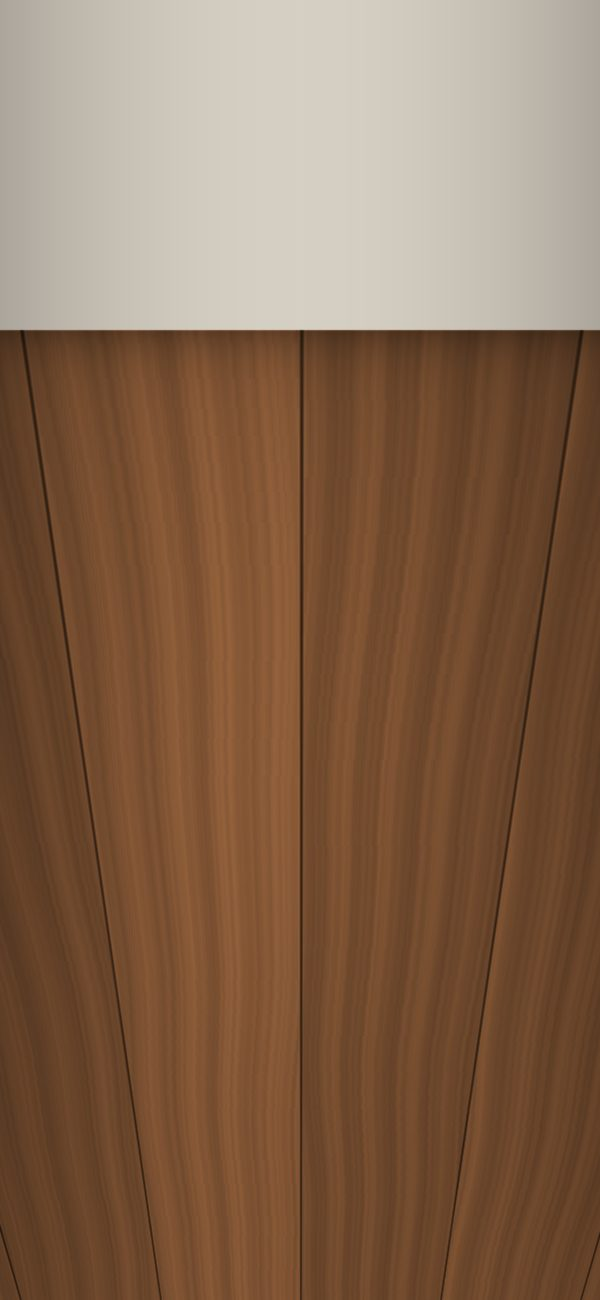
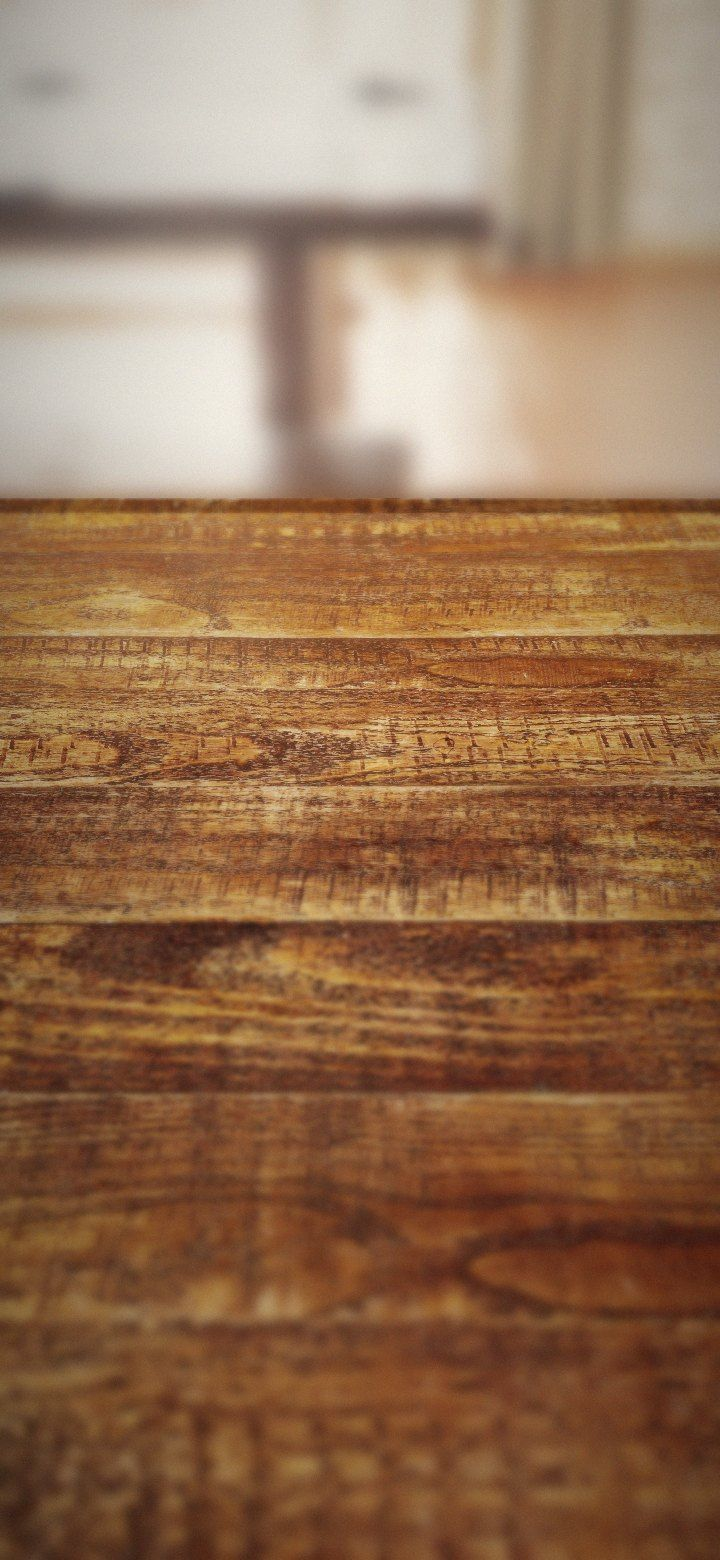
Make the homepage AR phone photo-real
Replace the drawn table with a render of a real restaurant (CC0 Poly Haven
HDRI + wood scan) using the same camera as the 3D view, light the dish with
the same restaurant HDRI, and match its angle so it sits on the table.

Claude-Session: https://claude.ai/code/session_011gwLWM6CGPWSsLyjZkfXA5

diff --git a/app/page.tsx b/app/page.tsx
@@ -193,7 +193,7 @@ export default async function Home() {
               className="relative aspect-[9/18.5] overflow-hidden rounded-[26px] bg-cover bg-center"
               style={{ backgroundImage: "url(/landing/ar-table.jpg)" }}
             >
-              <div className="absolute inset-x-0 bottom-[14%] top-[22%]">
+              <div className="absolute inset-0">
                 <Hero3D src={heroGlb} alt={`3D scan of ${heroName}`} />
               </div>
               <span className="absolute left-3 top-3 flex h-8 w-8 items-center justify-center rounded-full bg-black/45 text-white">
@@ -203,7 +203,7 @@ export default async function Home() {
                 Real size
               </span>
               {heroWidth > 0 && (
-                <span className="absolute left-1/2 top-[71%] -translate-x-1/2 rounded-full bg-white px-2.5 py-0.5 font-display text-xs font-extrabold">
+                <span className="absolute left-1/2 top-[69%] -translate-x-1/2 rounded-full bg-white px-2.5 py-0.5 font-display text-xs font-extrabold">
                   {heroWidth} cm wide
                 </span>
               )}

diff --git a/components/Hero3D.tsx b/components/Hero3D.tsx
@@ -17,18 +17,25 @@ export default function Hero3D({ src, alt }: { src: string; alt: string }) {
     <model-viewer
       src={src}
       alt={alt}
-      camera-orbit="20deg 58deg auto"
-      field-of-view="26deg"
+      // Matches the camera the table photo was rendered with (50cm above the
+      // table, tilted 40deg down), so the dish sits on the photo convincingly.
+      camera-orbit="0deg 50deg 1.02m"
+      max-camera-orbit="auto auto 3m"
+      camera-target="0m 0m 0m"
+      field-of-view="24deg"
+      min-field-of-view="10deg"
       auto-rotate
       auto-rotate-delay="0"
-      rotation-per-second="10deg"
+      rotation-per-second="8deg"
+      environment-image="/landing/restaurant-env.jpg"
       interaction-prompt="none"
       disable-zoom
       disable-pan
       disable-tap
-      shadow-intensity="1.4"
-      shadow-softness="0.6"
-      exposure="1.05"
+      shadow-intensity="1.8"
+      shadow-softness="0.45"
+      exposure="1.9"
+      tone-mapping="neutral"
       loading="eager"
       className="block h-full w-full"
       style={{

diff --git a/public/landing/CREDITS.md b/public/landing/CREDITS.md
@@ -1,0 +1,10 @@
+# Landing page imagery
+
+`ar-table.jpg` is rendered by us from two CC0 assets from Poly Haven
+(no attribution required, credited anyway):
+
+- HDRI "Warm Restaurant" — https://polyhaven.com/a/warm_restaurant
+- Texture "Wood Table" — https://polyhaven.com/a/wood_table
+
+`restaurant-env.jpg` is a downscaled, tone-mapped copy of the same HDRI, used
+to light the 3D dish so its lighting matches the photo behind it.
